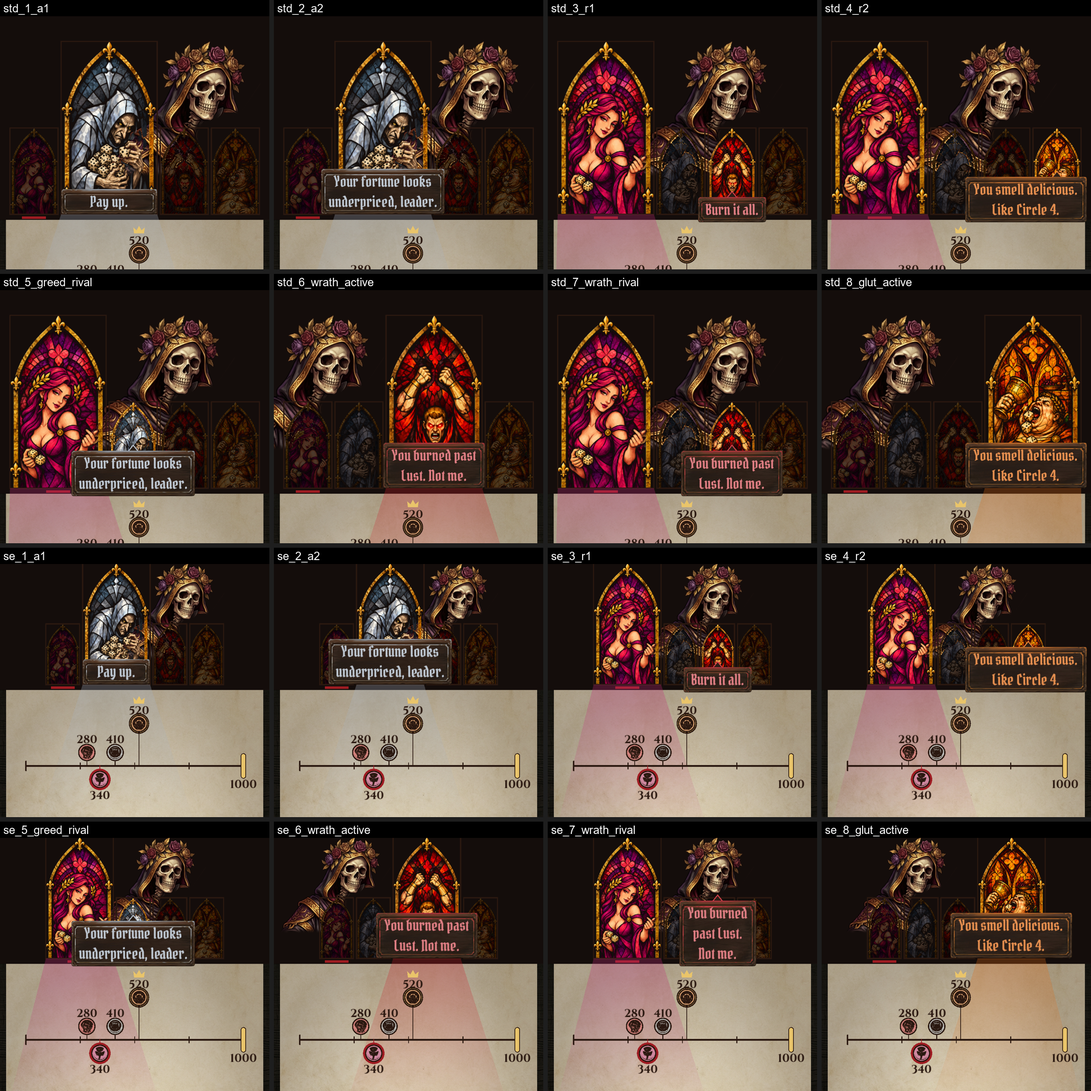
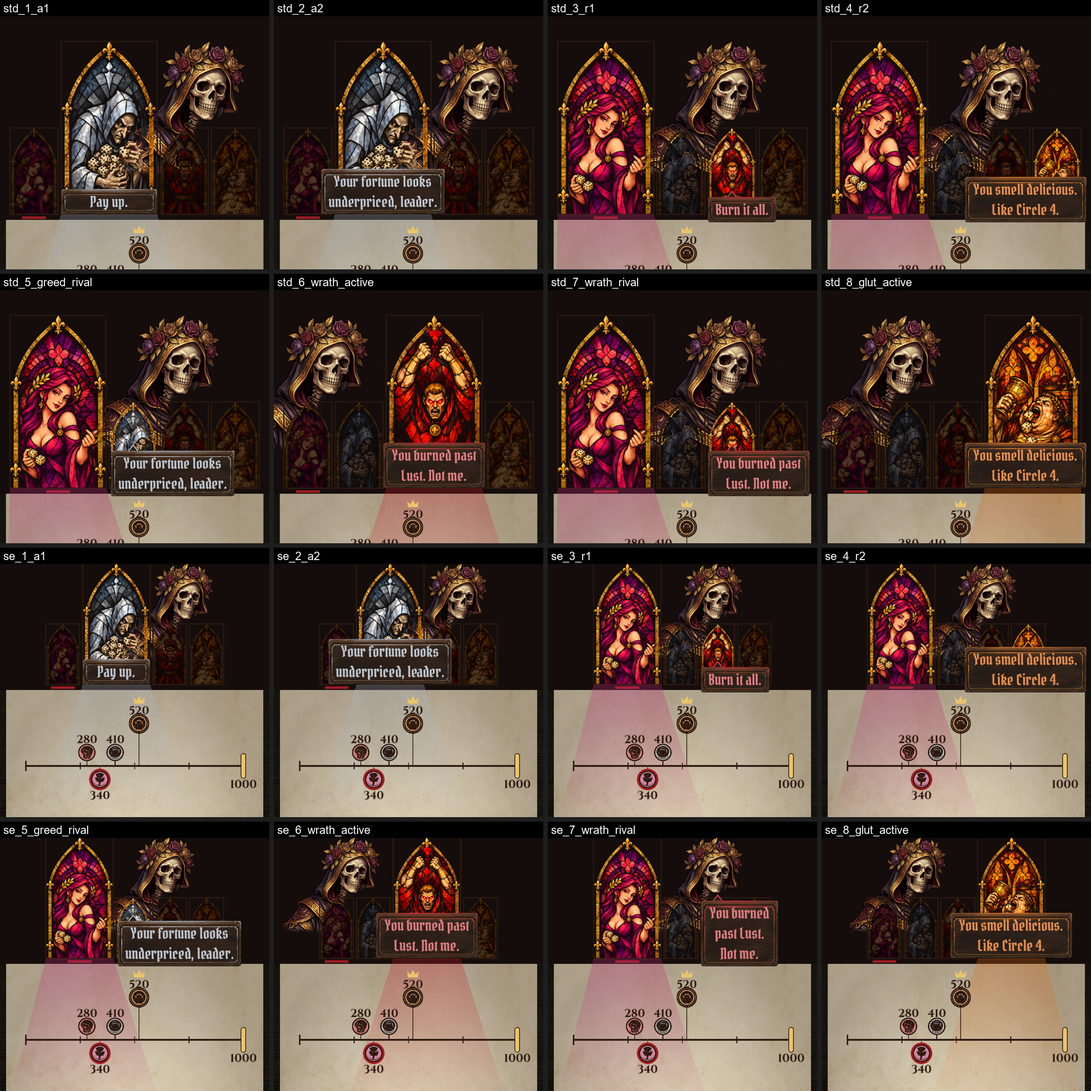
review: packet for REPLY 33 (plate fixes, Wrath wired, Master ring gap, Greed B redo, frame composite); REPLY 32 packet archived

diff --git a/Docs/review/latest/packet.md b/Docs/review/latest/packet.md
@@ -1,28 +1,30 @@
-# Packet: REPLY 32 (build 120, Sin plates wired, Master plate at std, frame try 2, Greed's dice, Wrath's eye line, icon)
-**Pushed: main at 2eb88eb, TestFlight run 20 = build 120 (table view).** 18 credits spent (126 left). Suite: all pass (load check, then 9 tests). Text audit: 35/35 clean at se and std. Lock: OK at std and SE.
-**32.2 Sin plates, wired** (9d45e44; `sin_plates.png` = the 16 cases from the real build, std then SE). A Sin's line no longer uses the Master's spot.
-- A rival's plate has its foot 10 px onto the page's top edge, so it straddles its window's foot and grows upward. Its notch points up and its window brightens. It clears the track: at std the plate ends at y 892; the first token label starts at 936.
-- An active plate holds at most 2 lines. SE Wrath now reads "You burned past / Lust. Not me." (it was 3 lines). A rival may take 3 lines at SE: SE Wrath as a rival does ("You burned / past Lust. / Not me.").
-- No plate touches the Master's mask box in the 16 cases.
-**32.3 Master at std** (2eb88eb; `master.png`). When the room beside him allows, his own line widens to one line. Mark and offer: 82 to 23 px over the rivals; call and final are also 23. SE stays at 44 (one line, unchanged). In the mark, the plate's right end meets the gold ring on the leader's window.
-**32.7 Icon** (`icon.png`, 180 and 60 px, beside the seven painted windows). `assets/icons/icon_1024.png` is icon_r2_3, pixel for pixel. The project and both iOS presets point at it. Godot 4.7 makes every iOS size from that one 1024 field. I could not open the exported app icons themselves: there is no iOS export template on this PC. Build 119's log shows icon_1024 imported, and TestFlight accepted that build. Nothing changed. A painted redo would be one 2K image, 18 credits.
-**32.1 Frame try 2** (an edit of try 1; `frame.png`: today | try 1 | try 2 | try 2 with the SE lock boxes; `target_frame2.png` at 750x1334). No lettering.
-- As asked: no bars under the dice. The snuffed candle is dark. The Master is a bust in a framed niche, with no fiddle or bow. The track rule is thinner.
-- Moved or not as asked:
-  - His niche sits right of his head box; his skull is right of the mask box.
-  - Only two rival windows show; the third rival box (Gluttony's) is an empty niche.
-  - The window light is still a hard-edged polygon.
-  - The pointer is still a bar with a triangle.
-  - An extra medallion appears near the track's end.
-- Unchanged from try 1: page, border, dice, cracked die, rose seal, Bank, Throw, lit candles, every box below the windows.
-**32.4 Greed's dice** (`greed_dice.png`: before | A | B at active, rival and lancet size; masked edits to `greed.png` only, not wired). A: dice gold and amber, dark pips, the robe glass between dice darkened. B: A with pips only on the front four dice. A few gold flecks also land on his lower hand's highlights.
-**32.5 Wrath's eye line** (`wrath_eyes_active.png`, `wrath_eyes_small.png`; not wired). Eye line as % of the table window (the art's top 403 of 760 px) and of the whole art:
-- Greed 44 / 24, Lust 44 / 24, Pride 44 / 23, Gluttony 51 / 27, Sloth 52 / 28, Envy 54 / 28, Wrath 62 / 33. The other six average 48 / 25.7.
-- After: the glass (frame split off by its gold) moved up 56 px, with no scaling. Wrath's eyes are now at 48 / 25.7 and the line drawn is 48%. His fists now sit under the arch. Some frame edges show leftovers where the gold split missed.
-**32.6** Noted: the table-size control stays where it is. Tracery waits for the frame's approval and your word.
+# Packet: REPLY 33 (plate fixes, Wrath wired, Master ring gap, Greed B redo, frame composite)
+**Local only, not pushed. 0 credits (126 left).** Suite: all pass (load check, then 9 tests). Text audit: 35/35 clean at se and std. Lock: OK at std and SE.
+**33.2 Wrath** (f0400b4; `wrath_edges.png`: 2x crops of both frame edges, before and after cleanup).
+- `wrath.png` itself is edited: the glass moved up 56 px, no scaling, at every size (active, rival, lancet).
+- Leftovers' cause was that the frame split took any gold near the edge, including his arm's highlights. Now it takes only gold joined to the rim, plus the lead along its inner edge.
+- Script: `tools/wrath_glass_shift.py`. The icon does not use Wrath.
+**33.1 Sin plates** (ad3b602; `sin_plates.png` = the 16 cases from the real build, after Wrath).
+- A rival's plate stays on its own side of the active window. It starts at its own window's edge away from the active window and grows over the other rivals. Greed (std_5, se_5) now starts at 444, 18 px past Lust's window. Every plate keeps 18 layout px from the screen edges (12 px at SE).
+- Track clearance is unchanged: the plate foot is at y 892, the first label at 936 (std). No plate touches the Master's mask box.
+- Faces at SE, 2 lines: Wrath (se_6) clear, the plate's top 7 px below his chin. Gluttony (se_8): the plate covers the bottom ~15 px of his chin and the die at his mouth. Not fixed, as asked.
+**33.3 Master mark at std** (6ecf94a). "Gluttony leads. No chain." does not fit on one line 12 px short of the ring: it would need 39 px more room (the active window bounds the left side). Following item 3, it stays on one line and still reaches 27 px into the ring's box. At SE the one-line plate already covers the ring. The gap does apply to a mark whose line fits.
+**33.4 Greed B redo** (`greed_dice.png`: before | B redo at active, rival and lancet size, plus a 5x zoom; not wired).
+- Each die is outlined by hand. The cause: colour alone cannot tell a shaded die face from his skin, which is what put flecks on his hand.
+- Faces are three flat steps of amber and gold, with a dark lead rim round each die and a thinner line between faces.
+- Pips stay on the front four dice. Some of their pips are lost too. The die behind his lower hand is still muddled.
+**33.5 Frame composite** (`frame.png`: today | try 2 | composite | composite with the SE lock boxes; `composite_750.png`; a mock, not wired).
+- From try 2: the page, border, dice, rose seal, Bank, Throw and candles. From the build, unmoved: everything above the page, the track, the stake and the seal words.
+- New by script (PIL here; Godot when wired): a soft elliptical window light and a stone arch round the Master's head box.
+- Not exactly in its lock box:
+  - The rose seal's wax is about 8 px wider than its box on each side. "1000" runs under try 2's border; the border is ~26 px wide inside the page box.
+  - The arch is drawn over his crown of roses, and its legs stop at the rival tops.
+- Try 2's baked hard light still shows faintly along its old right edge and on the page's top border.
+- Medallion quote: one sheet of seven painted tokens plus a brass pointer, transparent, 2K: 22 credits (GPT 2.5 Flare). Not generated.
+**33.6** Menus and tracery on hold; the table-size control stays.
 
 **Questions**
-1. Frame try 3, fixing the Master's niche, the missing third rival window, the hard light, the pointer and the extra medallion? Rec: yes, as an edit of try 2 (18 credits).
-2. Greed's dice: wire A or B? Rec: B.
-3. Wrath: wire the 56 px glass shift (cleaning the frame edges first)? Rec: yes.
-4. Master mark at std: keep the plate's right end clear of the gold ring (the plate ends 12 px short)? Rec: yes.
+1. Gluttony's chin at SE (se_8, ~15 px under his plate): crop his glass up like Wrath's, or let the plate stand? Rec: let it stand; his eyes and open mouth still show.
+2. Std mark line: accept it reaching into the ring, or shorten the line? Rec: accept.
+3. Make the medallion sheet (22 credits)? Rec: yes, after you approve the composite.
+4. Greed B: wire it as it is? Rec: no, one more pass on the front pips and the die behind his hand.

diff --git a/Docs/review/archive/2026-11-17-reply32/packet.md b/Docs/review/archive/2026-11-17-reply32/packet.md
@@ -1,0 +1,28 @@
+# Packet: REPLY 32 (build 120, Sin plates wired, Master plate at std, frame try 2, Greed's dice, Wrath's eye line, icon)
+**Pushed: main at 2eb88eb, TestFlight run 20 = build 120 (table view).** 18 credits spent (126 left). Suite: all pass (load check, then 9 tests). Text audit: 35/35 clean at se and std. Lock: OK at std and SE.
+**32.2 Sin plates, wired** (9d45e44; `sin_plates.png` = the 16 cases from the real build, std then SE). A Sin's line no longer uses the Master's spot.
+- A rival's plate has its foot 10 px onto the page's top edge, so it straddles its window's foot and grows upward. Its notch points up and its window brightens. It clears the track: at std the plate ends at y 892; the first token label starts at 936.
+- An active plate holds at most 2 lines. SE Wrath now reads "You burned past / Lust. Not me." (it was 3 lines). A rival may take 3 lines at SE: SE Wrath as a rival does ("You burned / past Lust. / Not me.").
+- No plate touches the Master's mask box in the 16 cases.
+**32.3 Master at std** (2eb88eb; `master.png`). When the room beside him allows, his own line widens to one line. Mark and offer: 82 to 23 px over the rivals; call and final are also 23. SE stays at 44 (one line, unchanged). In the mark, the plate's right end meets the gold ring on the leader's window.
+**32.7 Icon** (`icon.png`, 180 and 60 px, beside the seven painted windows). `assets/icons/icon_1024.png` is icon_r2_3, pixel for pixel. The project and both iOS presets point at it. Godot 4.7 makes every iOS size from that one 1024 field. I could not open the exported app icons themselves: there is no iOS export template on this PC. Build 119's log shows icon_1024 imported, and TestFlight accepted that build. Nothing changed. A painted redo would be one 2K image, 18 credits.
+**32.1 Frame try 2** (an edit of try 1; `frame.png`: today | try 1 | try 2 | try 2 with the SE lock boxes; `target_frame2.png` at 750x1334). No lettering.
+- As asked: no bars under the dice. The snuffed candle is dark. The Master is a bust in a framed niche, with no fiddle or bow. The track rule is thinner.
+- Moved or not as asked:
+  - His niche sits right of his head box; his skull is right of the mask box.
+  - Only two rival windows show; the third rival box (Gluttony's) is an empty niche.
+  - The window light is still a hard-edged polygon.
+  - The pointer is still a bar with a triangle.
+  - An extra medallion appears near the track's end.
+- Unchanged from try 1: page, border, dice, cracked die, rose seal, Bank, Throw, lit candles, every box below the windows.
+**32.4 Greed's dice** (`greed_dice.png`: before | A | B at active, rival and lancet size; masked edits to `greed.png` only, not wired). A: dice gold and amber, dark pips, the robe glass between dice darkened. B: A with pips only on the front four dice. A few gold flecks also land on his lower hand's highlights.
+**32.5 Wrath's eye line** (`wrath_eyes_active.png`, `wrath_eyes_small.png`; not wired). Eye line as % of the table window (the art's top 403 of 760 px) and of the whole art:
+- Greed 44 / 24, Lust 44 / 24, Pride 44 / 23, Gluttony 51 / 27, Sloth 52 / 28, Envy 54 / 28, Wrath 62 / 33. The other six average 48 / 25.7.
+- After: the glass (frame split off by its gold) moved up 56 px, with no scaling. Wrath's eyes are now at 48 / 25.7 and the line drawn is 48%. His fists now sit under the arch. Some frame edges show leftovers where the gold split missed.
+**32.6** Noted: the table-size control stays where it is. Tracery waits for the frame's approval and your word.
+
+**Questions**
+1. Frame try 3, fixing the Master's niche, the missing third rival window, the hard light, the pointer and the extra medallion? Rec: yes, as an edit of try 2 (18 credits).
+2. Greed's dice: wire A or B? Rec: B.
+3. Wrath: wire the 56 px glass shift (cleaning the frame edges first)? Rec: yes.
+4. Master mark at std: keep the plate's right end clear of the gold ring (the plate ends 12 px short)? Rec: yes.
